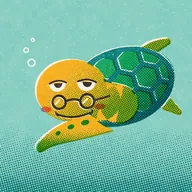
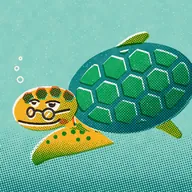
feat(brand) : Valentin a une vraie tête d'hippocampe, Paulette une vraie tête de tortue

diff --git a/packages/shared/src/avatars/avatarCatalog.ts b/packages/shared/src/avatars/avatarCatalog.ts
@@ -51,7 +51,7 @@ export const AVATAR_CHARACTERS: readonly AvatarCharacter[] = [
   character("licorne", "abyss", "#b8a1cf", "float"),
   character("pince", "abyss", "#f5ae1d", "bounce"),
   character("valentin", "abyss", "#f44da0", "sway"),
-  character("paulette", "abyss", "#87cec1", "float"),
+  character("paulette", "abyss", "#86cdc0", "float"),
   character("mistigri", "cineclub", "#e8584a", "sway"),
   character("minuit", "cineclub", "#1178ad", "doze"),
   character("bambou", "cineclub", "#f5da13", "bounce"),
@@ -65,7 +65,7 @@ export const AVATAR_CHARACTERS: readonly AvatarCharacter[] = [
   character("paillette", "cineclub", "#48577f", "wiggle"),
   character("encore", "cineclub", "#86ccc0", "doze"),
   character("comte", "creatures", "#874e67", "sway"),
-  character("drap", "creatures", "#118382", "float"),
+  character("drap", "creatures", "#118281", "float"),
   character("bandelette", "creatures", "#f58919", "doze"),
   character("glorp", "creatures", "#465a80", "float"),
   character("frankie", "creatures", "#f46f37", "shiver"),

diff --git a/brand/avatars/characters/paulette.py b/brand/avatars/characters/paulette.py
@@ -43,55 +43,96 @@ def lid_line(x, y, r, a, b, grow=5, bulge=0.0):
     return clipped(c(x, y, r + grow), p(f"M {x - r - 40} {y + a - k * 40} L {x + r + 40} {y + b + k * 40}"))
 
 
+class Moved:
+    """La même scène, chaque dessin passé par une transformation (recadrer un personnage entier)."""
+
+    def __init__(self, s, transform):
+        self.s, self.t = s, transform
+
+    def w(self, *els):
+        return f'<g transform="{self.t}">{"".join(els)}</g>'
+
+    def fill(self, ink, *els, **k):
+        return self.s.fill(ink, self.w(*els), **k)
+
+    def over(self, ink, *els):
+        return self.s.over(ink, self.w(*els))
+
+    def stroke(self, ink, width, *els, **k):
+        return self.s.stroke(ink, width, self.w(*els), **k)
+
+    def paper(self, *els):
+        return self.s.paper(self.w(*els))
+
+    def paper_stroke(self, width, *els):
+        return self.s.paper_stroke(width, self.w(*els))
+
+    def tint(self, ink, *els, **k):
+        return self.s.tint(ink, self.w(*els), **k)
+
+
 # ---------------------------------------------------------------- Paulette (tortue de mer)
 def draw():
     s = Scene()
     s.fill("mint", FULL)
     s.tint("teal", lin(0, 600, 0, 1000, ((0, 0.0), (1, 0.6))), cell=12, angle=75)
-    for x, y, r in [(170, 330, 18), (142, 266, 12), (176, 212, 8)]:
+    for x, y, r in [(110, 420, 15), (92, 360, 10), (112, 308, 7)]:
         s.paper_stroke(7, c(x, y, r))
     skin = "sun"
-    far_fl = tube([(700, 330), (790, 250), (866, 214)], 100, 36)
-    rear = tube([(870, 540), (930, 580)], 70, 30)
-    s.fill(skin, far_fl, rear)
-    s.tint("green", T(0.55, far_fl, rear), screen="k", cell=9, angle=30)
-    shell = e(640, 450, 280, 200, -18)
-    s.fill("teal", shell)
-    inner = e(646, 440, 244, 168, -18)
+    SH = (140, 420, 420, 640, 0.0, 0.6)
+    spot = lambda *xy: "".join(e(x, y, rx, rx * 0.7, 20) for x, y, rx in xy)
+    t = Moved(s, "translate(0 44) translate(500 470) scale(1.06) translate(-500 -470)")
+    # Nageoires de l'autre côté et arrière (sous la carapace).
+    far_fl = tube([(600, 270), (690, 190), (742, 156)], 92, 30)
+    rear = tube([(820, 580), (904, 646)], 80, 34)
+    t.fill(skin, far_fl, rear)
+    t.tint("green", T(0.55, far_fl, rear), screen="k", cell=9, angle=30)
+    # Grande nageoire avant, en aile.
+    FLIP_D = ("M 470 600 C 356 584 248 640 190 730 C 172 760 184 794 212 792 C 262 764 304 752 344 748 "
+              "C 424 736 500 712 592 686 Z")
+    t.fill(skin, p(FLIP_D))
+    t.over("green", hexa(440, 628, 15, 10), hexa(396, 630, 13, 20), hexa(352, 640, 12, 5), hexa(310, 656, 11, 15),
+           hexa(470, 662, 12, 0), hexa(420, 668, 11, 25), hexa(272, 680, 10, 0))
+    t.tint("green", shade(p(FLIP_D), 0, 640, 0, 780, 0.0, 0.8), screen="k", cell=9, angle=30)
+    # Cou épais, qui sort de sous la carapace.
+    neck = tube([(500, 548), (420, 540), (360, 532)], 168, 150)
+    t.fill(skin, neck)
+    t.over("green", spot((404, 590, 11), (448, 566, 9), (372, 486, 8)))
+    t.tint("green", shade(neck, *SH), screen="k", cell=9, angle=30)
+    t.stroke("orange", 10, p("M 396 470 Q 380 530 396 600"))
+    # Carapace.
+    shell = e(676, 420, 320, 214, -14)
+    t.fill("teal", shell)
+    inner = e(684, 412, 282, 180, -14)
     cells = []
     for row in range(-2, 3):
         for col in range(-3, 4):
-            x = 646 + col * 128 + (64 if row % 2 else 0)
-            y = 440 + row * 112
-            cells.append(hexa(x, y, 60, 30))
-    s.fill("green", clipped(inner, rot(-18, 646, 440, *cells)))
-    s.tint("teal", shade(shell, 520, 280, 820, 640, 0.0, 0.85), screen="s", cell=10, angle=45)
-    # Cou, tête, nageoire avant.
-    neck = tube([(620, 540), (520, 520)], 200, 210)
-    head = e(372, 468, 186, 160, -4)
-    SH = (260, 330, 520, 640, 0.0, 0.6)
-    s.fill(skin, neck, head)
-    s.tint("green", shade(neck + head, *SH), screen="k", cell=9, angle=30)
-    FLIP_D = ("M 470 596 C 380 604 270 656 200 736 C 178 762 184 792 210 790 C 262 760 304 746 344 740 "
-              "C 424 726 500 702 590 680 Z")
-    s.fill(skin, p(FLIP_D))
-    s.over("green", e(446, 640, 22, 14, -12), e(372, 662, 18, 12, -20), e(306, 694, 14, 10, -32))
-    s.tint("green", shade(p(FLIP_D), 0, 640, 0, 770, 0.0, 0.8), screen="k", cell=9, angle=30)
-    # Yeux lourds, sereins, au-dessus des lunettes.
-    for x, y, r, a, b in [(296, 428, 44, 6, 0), (448, 422, 48, 0, 6)]:
-        w, pu, gl = eye(x, y, r, look=(0.05, 0.3), pupil=0.5)
-        s.paper(w)
-        s.fill("black", pu)
-        s.paper(gl)
-        lp = lid(x, y, r, a, b, bulge=-12)
-        s.fill(skin, lp)
-        s.tint("green", shade(lp, *SH), screen="k", cell=9, angle=30)
-        s.stroke("black", 9, lid_line(x, y, r, a, b, bulge=-12))
-    s.stroke("black", 10, p("M 292 592 Q 374 628 466 586"), p("M 284 582 Q 286 594 296 598"),
-             p("M 474 576 Q 474 590 462 594"))
-    s.tint("pink", T(0.65, e(238, 572, 28, 16), e(516, 560, 30, 16)), screen="b", cell=8, angle=15)
-    # Lunettes rondes de lecture, tout au bout du bec.
-    s.stroke("black", 12, c(302, 530, 34), c(448, 526, 36), p("M 336 526 Q 374 508 412 522"),
-             p("M 484 522 L 562 500"))
-    s.paper_stroke(9, p("M 288 536 L 306 514"), p("M 432 532 L 452 510"))
+            cells.append(hexa(684 + col * 128 + (64 if row % 2 else 0), 412 + row * 112, 60, 30))
+    t.fill("green", clipped(inner, rot(-14, 684, 412, *cells)))
+    t.tint("teal", shade(shell, 540, 260, 860, 640, 0.0, 0.85), screen="s", cell=10, angle=45)
+    # Tête de trois-quarts : ovale allongée, plaques sur le dessus, bec court un peu crochu.
+    head = e(252, 518, 160, 106, -10)
+    hook = poly((98, 534), (130, 552), (106, 586))
+    t.fill(skin, head, hook)
+    plates = "".join(hexa(x, y, 30, 0) for x, y in
+                     [(168, 466), (232, 444), (300, 436), (366, 452)])
+    t.fill("orange", clipped(head, plates))
+    t.tint("green", shade(head, *SH), screen="k", cell=9, angle=30)
+    t.tint("green", T(0.7, clipped(head, plates)), screen="k", cell=9, angle=30)
+    # Yeux lourds, sereins.
+    for x, y, r in [(286, 494, 32), (196, 488, 22)]:
+        w, pu, gl = eye(x, y, r, look=(-0.3, 0.3), pupil=0.54)
+        t.paper(w)
+        t.fill("black", pu)
+        t.paper(gl)
+        lp = lid(x, y, r, -2, -2, bulge=-8)
+        t.fill(skin, lp)
+        t.tint("green", shade(lp, *SH), screen="k", cell=9, angle=30)
+        t.stroke("black", 9, lid_line(x, y, r, -2, -2, bulge=-8))
+    t.stroke("black", 10, p("M 118 584 Q 190 606 278 594 Q 304 590 318 574"))
+    t.tint("pink", T(0.65, e(338, 576, 24, 14)), screen="b", cell=8, angle=15)
+    # Lunettes rondes de lecture, posées sur le bec.
+    t.stroke("black", 11, c(264, 548, 27), e(178, 540, 17, 23), p("M 196 534 Q 214 524 238 540"),
+             p("M 290 542 L 364 526"))
+    t.paper_stroke(8, p("M 254 554 L 268 536"), p("M 172 548 L 182 532"))
     return s.layers()

diff --git a/brand/avatars/characters/valentin.py b/brand/avatars/characters/valentin.py
@@ -66,47 +66,57 @@ def draw():
     s.fill("pink", FULL)
     s.tint("red", rad(500, 480, 540, ((0, 0.0), (0.6, 0.0), (1, 0.6))), cell=12, angle=15)
     s.paper(heart(808, 214, 44, 14), heart(874, 322, 24, -12))
-    head = e(566, 262, 126, 98, -28)
-    snout = tube([(492, 300), (404, 348), (320, 396)], 82, 52)
-    lip = e(314, 400, 18, 34, -30)
-    body = p("M 498 324 C 468 388 408 428 394 508 C 378 608 420 702 520 750 L 612 744 "
-             "C 676 664 708 548 696 440 C 690 370 690 300 668 244 Z")
-    crest = "".join(spike(x, y, a, 44, 38) for x, y, a in
-                    [(604, 176, -70), (656, 206, -30), (690, 268, -10), (700, 340, 0), (702, 410, 5)])
-    coronet = spike(548, 178, -100, 54, 36) + spike(580, 176, -60, 46, 32)
-    FIN_D = "M 692 476 Q 806 470 818 566 Q 806 628 700 646 Z"
+    # Silhouette : tête penchée, nuque arquée, gorge creusée, ventre en avant — un S.
+    SIL = ("M 482 236 C 490 186 524 152 568 148 C 616 144 654 170 664 212 "
+           "C 670 244 662 270 672 304 C 700 392 708 494 690 584 C 676 654 640 712 600 752 "
+           "L 530 756 C 478 728 440 668 440 592 C 440 512 466 456 512 420 "
+           "C 534 404 544 382 536 360 C 526 340 504 332 486 332 Z")
+    snout = tube([(504, 292), (430, 318), (358, 350), (302, 376)], 94, 42)
+    fillet = (p("M 430 280 Q 480 262 494 196 L 530 300 Z")
+              + p("M 430 356 Q 494 352 540 392 L 530 300 Z"))
+    flare = e(292, 381, 17, 32, -24)
+    crest = "".join(spike(x, y, ang, 44, 36) for x, y, ang in
+                    [(668, 232, -20), (686, 330, -8), (704, 420, 0), (706, 500, 4)])
+    coronet = spike(544, 164, -108, 52, 34) + spike(578, 154, -82, 58, 34) + spike(612, 162, -56, 48, 32)
+    FIN_D = "M 688 540 Q 800 534 812 620 Q 800 676 676 690 Z"
     s.fill("orange", crest, coronet, p(FIN_D))
-    s.paper_stroke(9, clipped(p(FIN_D), p("M 700 506 L 830 506 M 700 552 L 840 566 M 700 598 L 830 624")))
-    s.fill("sun", body, head, snout, lip)
-    SH = (380, 240, 700, 760, 0.0, 0.85)
-    s.tint("orange", shade(body + head + snout + lip, *SH), cell=10, angle=45)
-    s.stroke("orange", 11, clipped(body, p("M 380 490 Q 450 512 530 494 M 374 560 Q 452 586 540 566 "
-                                           "M 384 630 Q 462 660 556 640 M 424 696 Q 494 722 584 704")))
-    # Mouchoir, pincé dans la boucle de la queue, qui flotte.
-    tissue = poly((462, 806), (432, 762), (396, 748), (378, 708), (334, 724), (302, 700), (282, 746), (302, 780),
-                  (272, 814), (302, 848), (348, 838), (382, 870), (424, 842), (462, 828))
-    s.paper(tissue)
-    s.tint("lav", shade(tissue, 300, 720, 460, 860, 0.0, 0.55), screen="t", cell=8, angle=30)
-    s.stroke("lav", 7, p("M 334 724 L 352 772 L 302 780"), p("M 352 772 L 400 790 L 396 748"),
-             p("M 348 838 L 372 806 L 420 812"))
-    s.over("aqua", c(330, 806, 13), c(402, 830, 9))
-    tail = tube([(572, 724), (592, 810), (546, 872), (466, 874), (420, 826), (440, 772), (494, 772), (504, 818),
-                 (472, 834)], 108, 22)
+    s.paper_stroke(9, clipped(p(FIN_D), p("M 690 568 L 830 566 M 690 612 L 840 624 M 690 656 L 830 680")))
+    body = p(SIL) + snout + fillet + flare
+    s.fill("sun", body)
+    SH = (420, 200, 700, 760, 0.0, 0.85)
+    s.tint("orange", shade(body, *SH), cell=10, angle=45)
+    # Joue (opercule) qui détache la tête du cou, anneaux du ventre.
+    s.stroke("orange", 11, p("M 540 352 Q 612 352 654 290"))
+    s.stroke("orange", 11, clipped(p(SIL), p("M 430 470 Q 520 492 620 466 M 430 540 Q 530 566 640 540 "
+                                             "M 434 610 Q 530 638 650 610 M 460 680 Q 540 704 640 680")))
+    # Mouchoir à liseré rouge, pincé dans la spirale de la queue.
+    HANKY_D = ("M 462 822 C 446 760 430 690 404 610 Q 380 640 344 626 Q 312 612 290 640 Q 262 664 222 652 "
+               "Q 244 690 238 724 Q 230 760 256 784 Q 278 808 268 852 Q 312 856 350 846 Q 404 832 462 822 Z")
+    hanky = p(HANKY_D)
+    s.paper(hanky)
+    s.tint("lav", shade(hanky, 300, 640, 460, 860, 0.0, 0.5), screen="t", cell=8, angle=30)
+    s.stroke("red", 10, clipped(hanky, '<g transform="translate(336 732) scale(0.8) translate(-336 -732)">'
+                                       f'<path d="{HANKY_D}"/></g>'))
+    s.stroke("lav", 8, p("M 448 800 Q 422 756 386 726"), p("M 446 812 Q 412 802 366 798"))
+    s.over("aqua", c(330, 716, 15), c(380, 784, 11))
+    tail = tube([(566, 740), (590, 818), (556, 882), (476, 894), (424, 852), (436, 790), (488, 780), (504, 826),
+                 (474, 844)], 100, 22)
     s.fill("sun", tail)
-    s.tint("orange", shade(tail, 420, 740, 600, 880, 0.2, 0.9), cell=10, angle=45)
-    # Œil embué, sourcil en accent circonflexe.
-    ex, ey, er = 572, 270, 56
-    w, pu, gl = eye(ex, ey, er, look=(-0.25, -0.3), pupil=0.58)
+    s.tint("orange", shade(tail, 420, 760, 600, 890, 0.2, 0.9), cell=10, angle=45)
+    # Œil embué, dans la tête ; sourcil en accent circonflexe.
+    ex, ey, er = 576, 246, 48
+    w, pu, gl = eye(ex, ey, er, look=(-0.3, -0.3), pupil=0.6)
     s.paper(w)
     s.fill("black", pu)
-    s.paper(gl, c(ex - 22, ey + 6, 10))
-    s.over("aqua", clipped(c(ex, ey, er), rect(ex - 90, ey + 16, 180, 90)))
-    lp = lid(ex, ey, er, -50, -14)
+    s.paper(gl, c(ex - 18, ey + 6, 9))
+    s.over("aqua", clipped(c(ex, ey, er), rect(ex - 80, ey + 14, 160, 80)))
+    lp = lid(ex, ey, er, -42, -12)
     s.fill("sun", lp)
     s.tint("orange", shade(lp, *SH), cell=10, angle=45)
-    s.stroke("black", 9, lid_line(ex, ey, er, -50, -14))
-    s.stroke("black", 14, p(f"M {ex - 56} {ey - 54} L {ex - 18} {ey - 90} L {ex + 42} {ey - 66}"))
-    s.stroke("aqua", 16, p(f"M {ex - 30} {ey + er - 6} Q {ex - 44} {ey + 84} {ex - 46} {ey + 104}"))
-    s.fill("aqua", drop(ex - 46, ey + 140, 30), drop(468, 468, 14))
-    s.tint("red", T(0.7, e(626, 336, 32, 20), e(330, 384, 22, 30)), screen="b", cell=8, angle=15)
+    s.stroke("black", 9, lid_line(ex, ey, er, -42, -12))
+    s.stroke("black", 12, p(f"M {ex - 48} {ey - 44} L {ex - 14} {ey - 78} L {ex + 40} {ey - 60}"))
+    s.stroke("aqua", 15, p(f"M {ex - 28} {ey + er - 6} Q {ex - 40} {ey + 76} {ex - 42} {ey + 96}"))
+    s.fill("aqua", drop(ex - 42, ey + 130, 28), drop(484, 468, 14))
+    s.tint("red", T(0.7, e(628, 300, 28, 18), e(312, 370, 22, 26)), screen="b", cell=8, angle=15)
+    s.fill("black", e(281, 386, 6, 14, -24))
     return s.layers()
